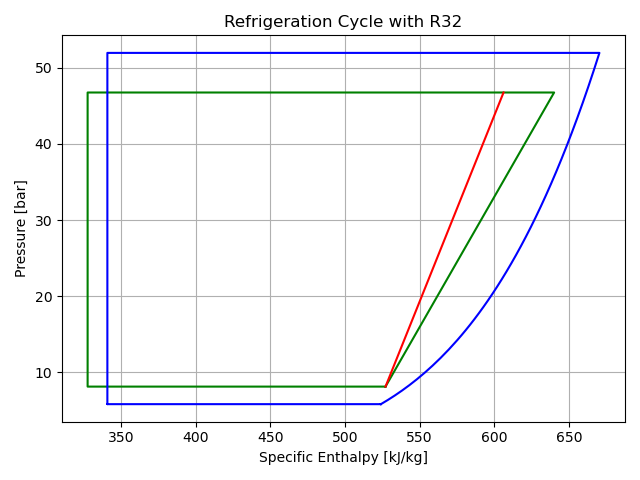
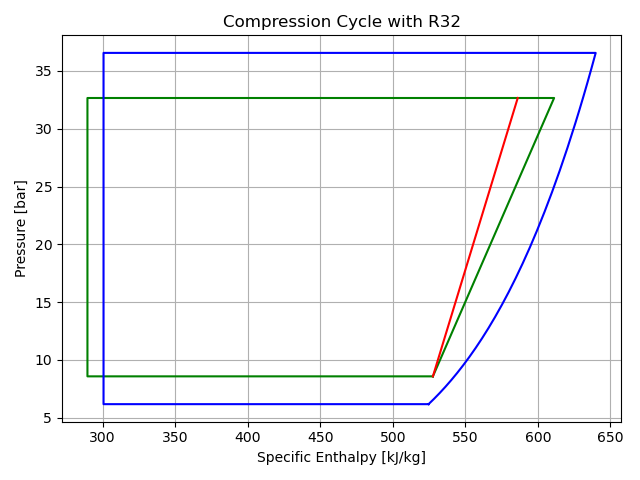
Added requirements.txt and charts are only saved not displayed

diff --git a/main.py b/main.py
@@ -3,7 +3,6 @@ from CoolProp.CoolProp import PropsSI
 from CoolProp.Plots import PropertyPlot, SimpleCompressionCycle
 import matplotlib.pyplot as plt
 import numpy as np
-import csv
 
 from helpers import bar_to_kPa, kw_to_tr
 
@@ -12,11 +11,11 @@ deg = u"\N{DEGREE SIGN}"
 refrigerant = 'R32'
 
 '''Suction Conditions'''
-t_sat_evap = 0 #degC
+t_sat_evap = 1.7 #degC
 superheat = 10 #degC
 
 '''Discharge Conditions'''
-t_sat_cond = 68 #degC
+t_sat_cond = 51.7 #degC
 subcooling = 5 #degC
 
 '''Compressor Parameters'''
@@ -126,7 +125,7 @@ plt.plot(enthalpies, pressures, 'b')
 
 plt.xlabel("Specific Enthalpy [kJ/kg]")
 plt.ylabel("Pressure [bar]")
-plt.title(f"Refrigeration Cycle with {refrigerant}")
+plt.title(f"Compression Cycle with {refrigerant}")
 plt.grid()
 
 plt.savefig("Charts/Cycle.png")
@@ -134,6 +133,6 @@ plt.savefig("Charts/Cycle.png")
 pp.draw_process(sc)
 pp.title("p-h Diagram")
 pp.savefig('Charts/p-h.png')
-pp.show()
+#pp.show()
 
-plt.show()
+#plt.show()
